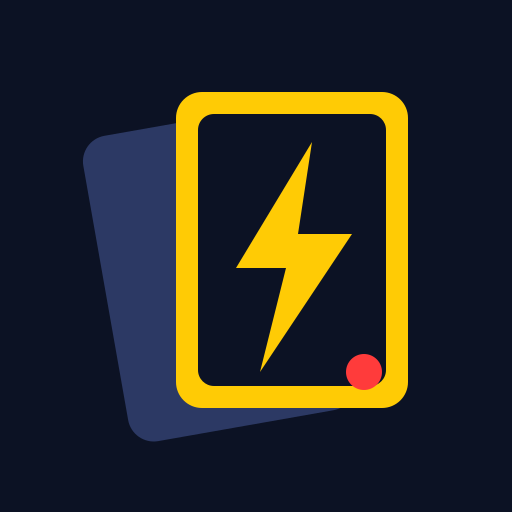
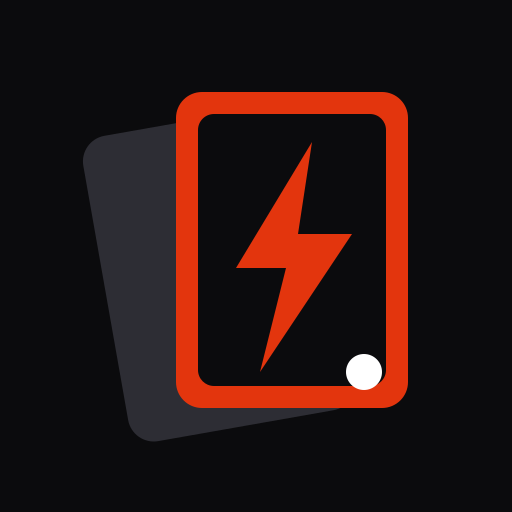
Thème noir et rouge
Claude-Session: https://claude.ai/code/session_01PQvJd11zcFUKuSFhHqJvUU

Changed region(s): [[0.1562, 0.1562, 0.8125, 0.875], [0.4688, 0.2812, 0.6875, 0.7188]]

diff --git a/styles.css b/styles.css
@@ -1,21 +1,21 @@
 /* Mise en page : appli mobile à une colonne, barre d'onglets fixe en bas, fiche carte en panneau glissant.
-   Thème clair « Pokédex » : barre rouge, fond blanc bleuté, touches de jaune et de bleu, formes arrondies. */
+   Thème noir et rouge : fond noir, rouge vif en accent, formes arrondies. */
 :root {
-  color-scheme: light;
-  --bg: #edf1f8;
-  --surface: #ffffff;
-  --surface-2: #e6ebf5;
-  --line: #d3dbea;
-  --fg: #1a2340;
-  --muted: #64708f;
+  color-scheme: dark;
+  --bg: #0b0b0d;
+  --surface: #151518;
+  --surface-2: #1e1e23;
+  --line: #2d2d34;
+  --fg: #f4f4f6;
+  --muted: #9b9ba8;
   --accent: #e3350d;      /* rouge Pokédex */
   --accent-ink: #ffffff;
-  --gold: #ffcb05;        /* jaune électrique */
-  --gold-ink: #3b2c00;
-  --cyan: #2a75bb;        /* bleu */
+  --gold: #ff5a3c;        /* rouge clair */
+  --gold-ink: #ffffff;
+  --cyan: #ff6b57;        /* second rouge (dégradés) */
   --hot: #e3350d;         /* coeur / souhaits */
-  --up: #16935a;
-  --down: #d32f45;
+  --up: #3ddc84;
+  --down: #ff5468;
   --red-dark: #b3260a;
   /* raretés (clés anglaises des données, voir RARITY_HEX dans app.js) */
   --r-common: #8e96b2;
@@ -1237,93 +1237,52 @@ button.deck-tile { text-align: left; width: 100%; }
 
 
 /* ==========================================================================
-   Thème Pokédex (CardDex) : remplace l'esprit néon de NightDex
+   Thème noir et rouge (CardDex)
    ========================================================================== */
 body {
   background:
-    radial-gradient(circle at 1px 1px, rgb(26 35 64 / .07) 1px, transparent 0) 0 0 / 18px 18px,
+    radial-gradient(ellipse 120% 60% at 50% -10%, rgb(227 53 13 / .16), transparent 60%),
     var(--bg);
+  background-attachment: fixed;
 }
-body::before { background: var(--accent); }
+body::before { background: #000; }
 
-/* Barre du haut rouge, comme un Pokédex, avec une bande sombre et un voyant bleu */
-.topbar {
-  background: linear-gradient(180deg, var(--accent), var(--red-dark));
-  color: #fff; backdrop-filter: none;
-  border-bottom: 4px solid #1a2340;
-  box-shadow: 0 4px 0 rgb(26 35 64 / .12);
-  margin-bottom: 14px;
-}
-.topbar h1 { color: #fff; text-shadow: 0 2px 0 rgb(0 0 0 / .18); }
-.topbar .icon-btn, .topbar .icon-btn.on { color: #fff; }
-.topbar .icon-btn:hover { background: rgb(255 255 255 / .16); }
-.topbar .lang-btn { background: rgb(0 0 0 / .18); border-color: rgb(255 255 255 / .25); }
-.topbar .lang-btn span { color: rgb(255 255 255 / .8); }
-.topbar .lang-btn span.on { background: #fff; color: var(--accent); }
-.topbar .search { border-color: transparent; }
+/* Barre du haut noire, filet rouge */
+.topbar { background: rgb(8 8 10 / .92); border-bottom: 2px solid var(--accent); margin-bottom: 14px; }
+.topbar h1 { color: #fff; }
+.topbar .lang-btn { background: var(--surface); }
 
 /* tout arrondi */
 .seg button[aria-pressed="true"], .cta, .set-code, .title-code, .tabbar .tab-main { clip-path: none; }
-.seg { background: var(--surface); box-shadow: 0 2px 6px rgb(26 35 64 / .06); }
-.seg button[aria-pressed="true"] { border-radius: 11px; box-shadow: 0 2px 0 var(--red-dark); }
-.cta { border-radius: 999px; box-shadow: 0 3px 0 var(--red-dark); }
-.cta:active { transform: translateY(2px); box-shadow: 0 1px 0 var(--red-dark); }
-.set-code { border-radius: 8px; background: var(--cyan); color: #fff; }
-.title-code { border-radius: 6px; background: var(--gold); color: var(--gold-ink); }
-.btn-ghost { box-shadow: 0 2px 0 var(--line); }
+.seg { background: var(--surface); }
+.seg button[aria-pressed="true"] { border-radius: 11px; box-shadow: 0 4px 14px -4px rgb(227 53 13 / .7); }
+.cta { border-radius: 999px; box-shadow: 0 6px 18px -6px rgb(227 53 13 / .8); }
+.set-code { border-radius: 8px; background: var(--accent); color: #fff; }
+.title-code { border-radius: 6px; background: var(--accent); color: #fff; }
+.search { background: var(--surface); }
 
-/* cartes et blocs : fond blanc, ombre douce */
-.block, .panel { box-shadow: 0 2px 10px rgb(26 35 64 / .07); border-color: var(--line); }
-.block > summary { color: var(--fg); }
-.block > summary::before {
-  content: ""; width: 14px; height: 14px; margin-right: 10px; flex: none; border-radius: 50%;
-  background: radial-gradient(circle at 35% 35%, #fff 0 18%, var(--cyan) 22% 100%);
-  box-shadow: 0 0 0 3px #fff, 0 0 0 4px var(--line);
-}
 .block > summary { justify-content: flex-start; }
+.block > summary::before { content: ""; width: 10px; height: 10px; margin-right: 10px; flex: none; border-radius: 50%; background: var(--accent); box-shadow: 0 0 10px var(--accent); }
 .block > summary svg { margin-left: auto; }
-.bar { background: var(--surface-2); }
-.bar > i { background: linear-gradient(90deg, var(--accent), var(--gold)); }
-.print, .sync.wait, .friends .panel h3 small b.pseudo, .lb-verify span b.num { color: var(--accent); }
-.demo-banner { background: #fff7d1; border-color: var(--gold); color: var(--gold-ink); }
-.foil { background: linear-gradient(90deg, var(--cyan), var(--gold), #ff6fae); color: #1a2340; }
+.bar > i { background: linear-gradient(90deg, var(--red-dark), var(--accent), var(--gold)); }
+.demo-banner { border-color: var(--accent); color: #ffb3a3; background: rgb(227 53 13 / .08); }
+.foil { background: linear-gradient(90deg, var(--red-dark), var(--accent), #ffb199); color: #fff; }
 
-/* Barre d'onglets blanche, bouton central rond (rouge et blanc) */
-.tabbar {
-  background: #fff; border-top: 0;
-  box-shadow: 0 -4px 18px rgb(26 35 64 / .10);
-}
-.tabbar a[aria-current="page"] { color: var(--accent); }
-.tabbar a[aria-current="page"] span { border-bottom-color: var(--accent); }
-.tabbar .tab-main {
-  border-radius: 50%; margin-top: -24px; width: 62px; height: 62px;
-  background: linear-gradient(180deg, var(--accent) 0 50%, #fff 50% 100%);
-  color: #1a2340; border: 4px solid #1a2340;
-  box-shadow: 0 4px 12px rgb(26 35 64 / .25);
-}
-.tabbar .tab-main svg { background: #fff; border-radius: 50%; padding: 4px; width: 30px; height: 30px; box-shadow: 0 0 0 3px #1a2340; }
-.toast { background: #1a2340; color: #fff; border-radius: 999px; }
+/* Barre d'onglets noire, bouton central rond rouge */
+.tabbar { background: rgb(8 8 10 / .95); border-top: 1px solid var(--line); }
+.tabbar a[aria-current="page"] { color: #fff; }
+.tabbar a[aria-current="page"] svg { color: var(--accent); }
+.tabbar .tab-main { border-radius: 50%; margin-top: -22px; width: 60px; height: 60px; color: #fff; border: 3px solid var(--bg); box-shadow: 0 6px 20px -4px rgb(227 53 13 / .8); }
+.toast { background: var(--accent); color: #fff; border-radius: 999px; }
 
-/* Ordinateur : barre latérale rouge */
-:root[data-device="pc"] .tabbar { background: linear-gradient(180deg, var(--accent), var(--red-dark)); border-right: 4px solid #1a2340; box-shadow: none; }
-:root[data-device="pc"] .tabbar .brand, :root[data-device="pc"] .tabbar a, :root[data-device="pc"] .tabbar .tab-main { color: rgb(255 255 255 / .85); }
-:root[data-device="pc"] .tabbar .tab-main svg { background: none; box-shadow: none; padding: 0; }
-:root[data-device="pc"] .tabbar a:hover { background: rgb(255 255 255 / .14); color: #fff; }
-:root[data-device="pc"] .tabbar a[aria-current="page"] { background: #fff; color: var(--accent); }
-:root[data-device="pc"] .tabbar a[aria-current="page"] svg { color: var(--accent); }
-:root[data-device="pc"] .topbar { border-radius: 0 0 18px 18px; }
+/* Ordinateur : barre latérale noire */
+:root[data-device="pc"] .tabbar { background: #08080a; border-right: 2px solid var(--accent); box-shadow: none; }
+:root[data-device="pc"] .tabbar .tab-main { box-shadow: none; border: 0; }
+:root[data-device="pc"] .tabbar a[aria-current="page"] { background: rgb(227 53 13 / .14); color: #fff; }
 
-/* versions claires des bandeaux illustrés (séries, listes, classeurs) */
-.set-hero h2, .set-hero-prog, .list-top h3, .list-prog, .bc-title strong, .set-row .set-name, .set-row .set-count {
-  color: var(--fg); text-shadow: 0 0 2px #fff, 0 0 10px #fff, 0 0 18px #fff;
-}
-.set-hero-prog b { color: var(--accent); }
-.set-hero::after { background: linear-gradient(90deg, rgb(255 255 255 / .96) 0%, rgb(255 255 255 / .7) 55%, rgb(255 255 255 / .2)), linear-gradient(0deg, #fff 0%, transparent 70%); }
-.set-hero { box-shadow: 0 2px 10px rgb(26 35 64 / .07); }
-.set-hero .bar, .set-row .bar, .set-tile .bar { background: var(--surface-2); }
-.set-row, .set-tile, .list-card { background: #fff; }
-.set-row::after, .set-tile::after { background: linear-gradient(90deg, #fff 32%, rgb(255 255 255 / .55) 75%, rgb(255 255 255 / .1)); }
-.list-card::after { background: linear-gradient(90deg, #fff 35%, rgb(255 255 255 / .5) 80%, transparent); }
-.set-row:hover, .set-tile:hover, .list-card:hover { border-color: var(--accent); box-shadow: 0 4px 14px rgb(227 53 13 / .15); }
-.set-row.done, .set-tile.done { border-color: var(--gold); box-shadow: 0 0 0 2px var(--gold), 0 4px 14px rgb(255 203 5 / .35); }
+/* bandeaux illustrés (séries, listes) */
+.set-hero h2 { color: #fff; }
+.set-code + .set-name, .set-row .set-name { color: #fff; }
+.set-row:hover, .set-tile:hover, .list-card:hover { border-color: var(--accent); box-shadow: 0 6px 22px -8px rgb(227 53 13 / .7); }
+.set-row.done, .set-tile.done { border-color: var(--accent); box-shadow: 0 0 22px -6px var(--accent); }
 .list-desc { text-shadow: none; }

diff --git a/index.html b/index.html
@@ -5,7 +5,7 @@
   <meta name="viewport" content="width=device-width, initial-scale=1">
   <title>CardDex</title>
   <meta name="description" content="Suivi de collection Pokémon TCG en français, anglais et japonais : cartes, prix Cardmarket et courbes de prix.">
-  <meta name="theme-color" content="#e3350d">
+  <meta name="theme-color" content="#0b0b0d">
   <link rel="manifest" href="manifest.webmanifest">
   <link rel="icon" href="icons/icon.svg" type="image/svg+xml">
   <link rel="apple-touch-icon" href="icons/icon-192.png">
@@ -24,7 +24,7 @@
   </div>
 
   <nav class="tabbar" aria-label="Navigation principale">
-    <div class="brand pc-only" aria-hidden="true"><svg viewBox="0 0 512 512"><rect x="176" y="92" width="232" height="316" rx="26" fill="#ffcb05"/><rect x="198" y="114" width="188" height="272" rx="16" fill="#e3350d"/><path d="M312 142 236 268h50l-26 104 92-138h-54z" fill="#ffcb05"/></svg>CardDex</div>
+    <div class="brand pc-only" aria-hidden="true"><svg viewBox="0 0 512 512"><rect x="176" y="92" width="232" height="316" rx="26" fill="#e3350d"/><rect x="198" y="114" width="188" height="272" rx="16" fill="#e3350d"/><path d="M312 142 236 268h50l-26 104 92-138h-54z" fill="#e3350d"/></svg>CardDex</div>
     <a href="#home" data-tab="home">
       <svg viewBox="0 0 24 24" aria-hidden="true"><path d="M3 11 12 4l9 7v9a1 1 0 0 1-1 1h-5v-6H9v6H4a1 1 0 0 1-1-1z"/></svg>
       <span>Accueil</span>

diff --git a/sw.js b/sw.js
@@ -1,7 +1,7 @@
 // Cache hors ligne : l'interface et les images sont servies depuis le cache, les données sont rafraîchies dès que possible.
 // Seules les réponses valides sont mises en cache : une erreur passagère (réseau coupé, mise à jour du site)
 // n'est jamais mémorisée, la ressource est simplement redemandée la fois suivante.
-const CACHE = 'carddex-v2';
+const CACHE = 'carddex-v3';
 const SHELL = ['./', 'index.html', 'styles.css', 'app.js', 'manifest.webmanifest', 'icons/icon.svg', 'data/config.json'];
 const keep = (req, r) => { if (r && r.ok && r.type === 'basic') { const copy = r.clone(); caches.open(CACHE).then((c) => c.put(req, copy)); } return r; };
 self.addEventListener('install', (e) => { e.waitUntil(caches.open(CACHE).then((c) => c.addAll(SHELL))); self.skipWaiting(); });
